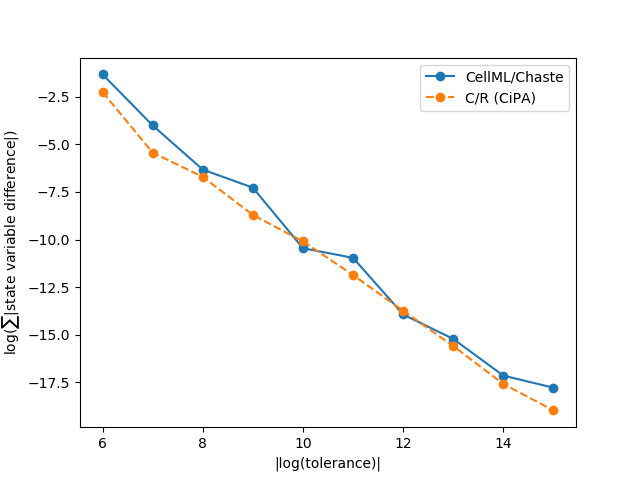
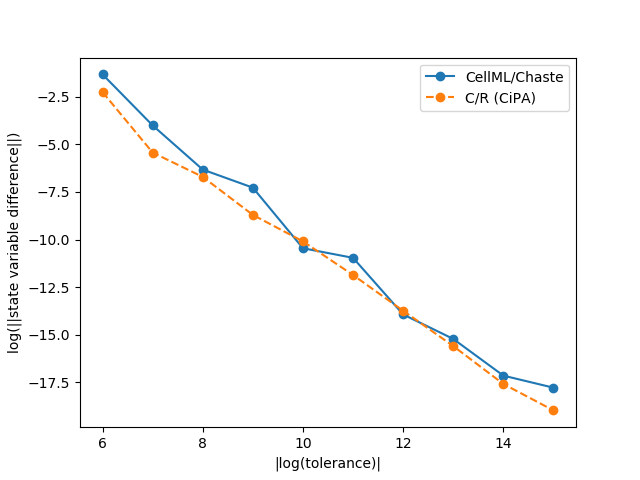
Changed y-label

Changed region(s): [[0.0, 0.25, 0.0312, 0.75]]

diff --git a/plot_output/quick_plot_tol.py b/plot_output/quick_plot_tol.py
@@ -10,6 +10,6 @@ tol = np.arange(6,6+10)
 plt.plot(tol, np.log(tol_err[:,0]), 'o-', label='CellML/Chaste')
 plt.plot(tol, np.log(tol_err[:,1]), 'o--', label='C/R (CiPA)')
 plt.xlabel('|log(tolerance)|')
-plt.ylabel(r'log($\sum$|state variable difference|)')
+plt.ylabel('log(||state variable difference||)')
 plt.legend()
 plt.savefig('solver_tol_test.png', bbox_inch='tight')
